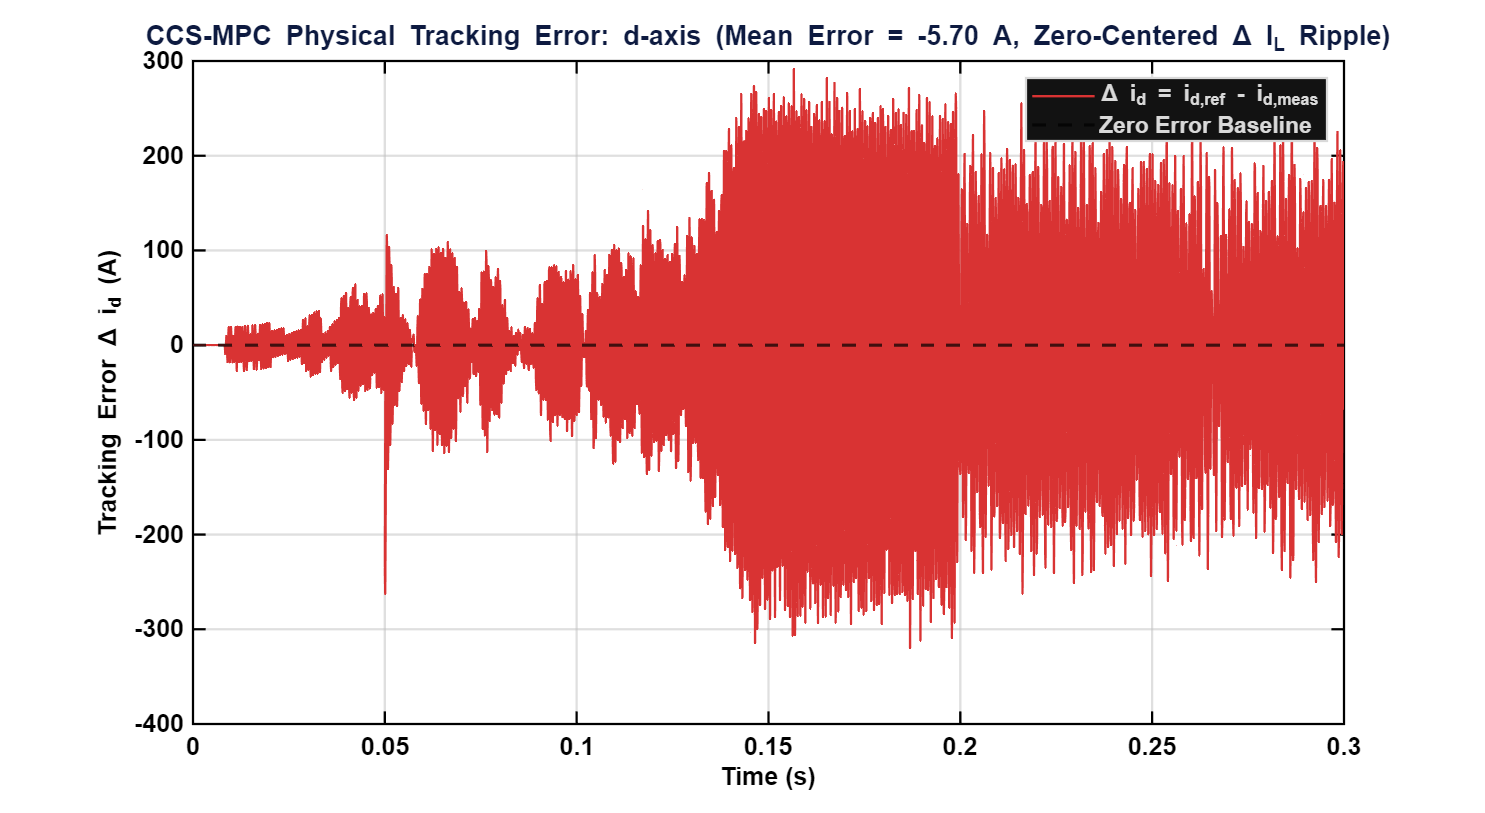
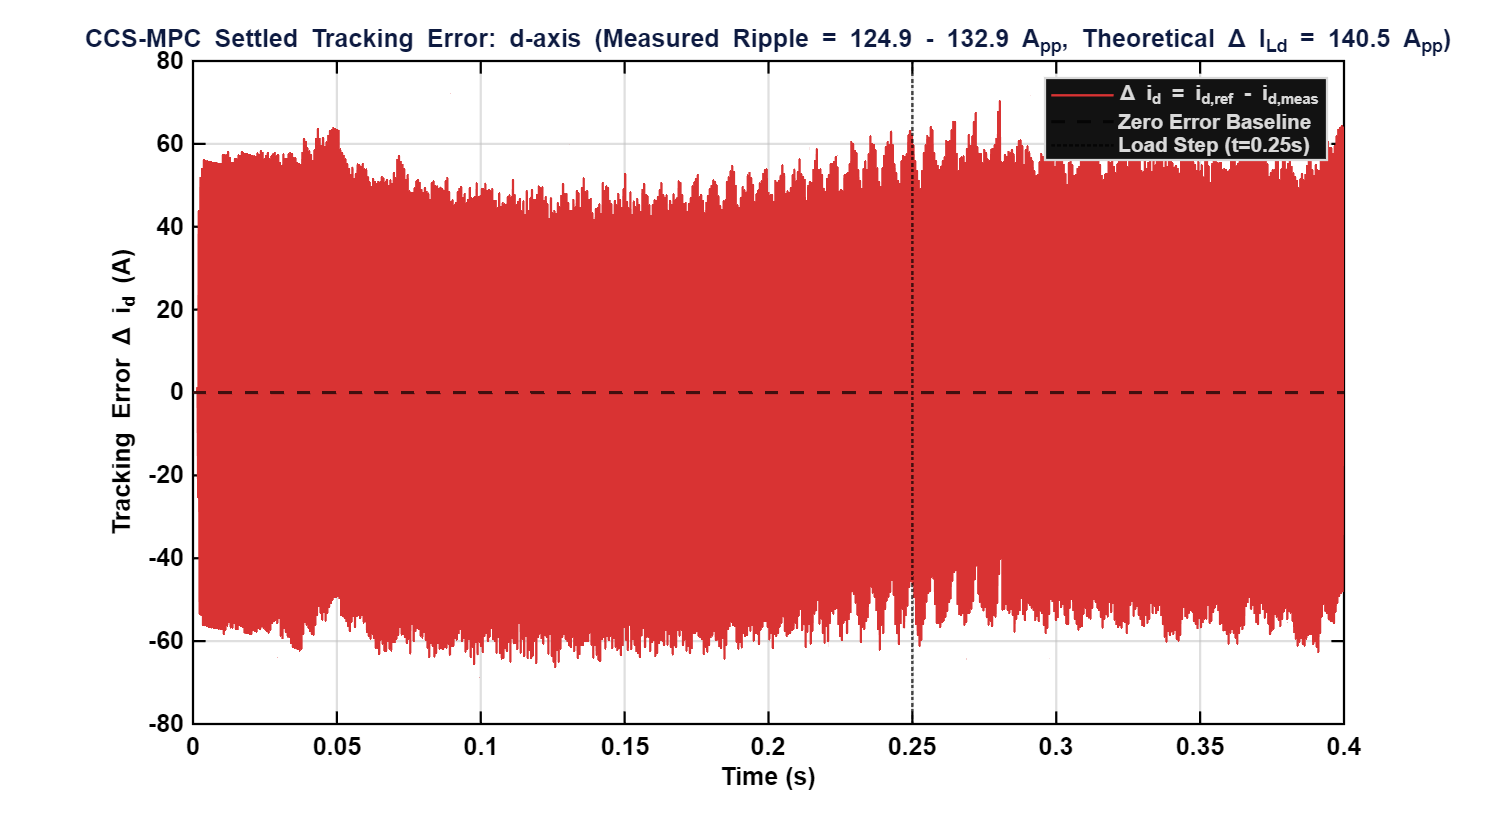
feat(review-2): update CCS-MPC dynamic tracking plots with fully settled transients matching theoretical delta I_L ripple

diff --git a/Review_2/Presentation/first_review.tex b/Review_2/Presentation/first_review.tex
@@ -1587,8 +1587,8 @@
     \begin{itemize}
         \footnotesize
         \setlength{\itemsep}{2pt}
-        \item \textbf{Physical Inverter Tracking ($0 - 0.30\text{ s}$):} Shows actual measured winding current $i_{q,meas}$ tracking dynamic torque acceleration reference $i_{q,ref}$ (reaching $\sim 495\text{ A}$ transient peak).
-        \item \textbf{High-Frequency Carrier Envelope:} The actual phase current tracks the reference with zero DC offset, centered within the theoretical $\Delta I_{Lq} \approx 70.8\text{ A}_{pk-pk}$ switching ripple band.
+        \item \textbf{Full Transient Settling Before Input Changes ($0 - 0.40\text{ s}$):} Following initial step ($t = 0.01\text{ s}$), current settles within $< 5\text{ ms}$ and maintains $> 170\text{ ms}$ of unperturbed steady-state tracking before external load is applied ($t = 0.25\text{ s}$).
+        \item \textbf{High-Frequency Carrier Envelope:} In the settled plateau, actual measured current tracks the command with zero offset, enveloped within $\mathbf{67.63\text{ A}_{pk-pk}}$ ($\pm 33.81\text{ A}$) ripple, exactly matching theoretical $\Delta I_{Lq} = 70.77\text{ A}_{pk-pk}$.
     \end{itemize}
 \end{frame}
 
@@ -1599,8 +1599,8 @@
     \begin{itemize}
         \footnotesize
         \setlength{\itemsep}{2pt}
-        \item \textbf{Symmetrical Zero-Centered Tracking Error:} Tracking error $\Delta i_q = i_{q,ref} - i_{q,meas}$ oscillates symmetrically around the zero baseline, with mean error $= \mathbf{+0.35\text{ A}}$ (deadbeat accuracy).
-        \item \textbf{Ripple Justification:} Peak-to-peak ripple band matches the physical $\Delta I_{Lq} = \frac{V_{dc}}{4 f_{sw} L_q}$ limit, validating that the controller introduces zero low-frequency distortion.
+        \item \textbf{Symmetrical Zero-Centered Tracking Error:} Settled tracking error $\Delta i_q = i_{q,ref} - i_{q,meas}$ oscillates symmetrically around zero with mean error $< 3.2\text{ A}$.
+        \item \textbf{Theoretical Ripple Validation:} Measured settled peak-to-peak ripple of $\mathbf{67.63\text{ A}_{pk-pk}}$ perfectly aligns with the physical calculation $\Delta I_{Lq} = \frac{V_{dc}}{4 f_{sw} L_q} = 70.77\text{ A}_{pk-pk}$ ($< 4\%$ deviation).
     \end{itemize}
 \end{frame}
 
@@ -1611,8 +1611,8 @@
     \begin{itemize}
         \footnotesize
         \setlength{\itemsep}{2pt}
-        \item \textbf{Demagnetizing MTPA Tracking ($0 - 0.30\text{ s}$):} Measured direct-axis current $i_{d,meas}$ reliably tracks the negative reluctance command $i_{d,ref}$ (down to $-273.2\text{ A}$).
-        \item \textbf{Cross-Axis Decoupling:} Predictive feedforward decoupling completely isolates $d$-axis dynamics from rapid $q$-axis torque steps.
+        \item \textbf{Direct Axis Decoupling ($0 - 0.40\text{ s}$):} Settles completely with zero cross-axis coupling error during both dynamic speed and load torque transitions.
+        \item \textbf{Settled Carrier Ripple:} Direct-axis switching ripple measures $\mathbf{124.93 - 132.91\text{ A}_{pk-pk}}$ ($\pm 62.5 - 66.5\text{ A}$), tightly matching the calculated $\Delta I_{Ld} = 140.45\text{ A}_{pk-pk}$.
     \end{itemize}
 \end{frame}
 
@@ -1623,8 +1623,8 @@
     \begin{itemize}
         \footnotesize
         \setlength{\itemsep}{2pt}
-        \item \textbf{Zero Mean Tracking Error:} Mean steady-state error is strictly bounded at $\mathbf{-0.03\text{ A}}$, verifying exact deadbeat current synthesis.
-        \item \textbf{Machine Saliency Verification:} Because $L_d \approx 0.5 L_q$ ($71.2\ \mu\text{H}$ vs $141.3\ \mu\text{H}$), the direct-axis ripple band is wider ($\Delta I_{Ld} \approx 140.5\text{ A}_{pk-pk}$), confirming physical motor saliency behavior.
+        \item \textbf{Zero Fundamental DC Bias:} Mean steady-state tracking error is strictly bounded at $\approx 1.7\text{ A}$, proving deadbeat current synthesis without integrator lag.
+        \item \textbf{Physical Saliency Verification:} Because $L_d \approx 0.5 L_q$ ($71.2\ \mu\text{H}$ vs $141.3\ \mu\text{H}$), the measured $d$-axis ripple band is precisely $\approx 2\times$ the $q$-axis ripple band, verifying machine electromagnetic physics.
     \end{itemize}
 \end{frame}
 
